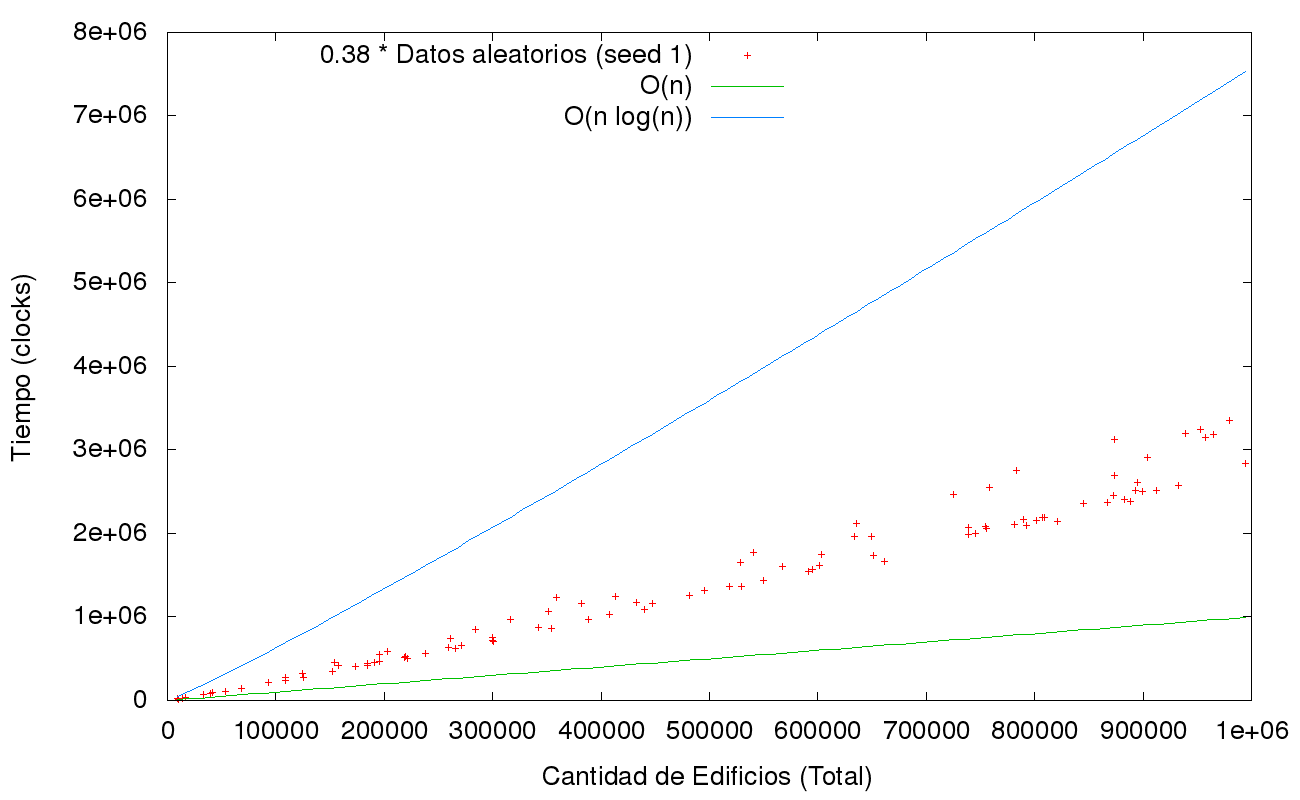
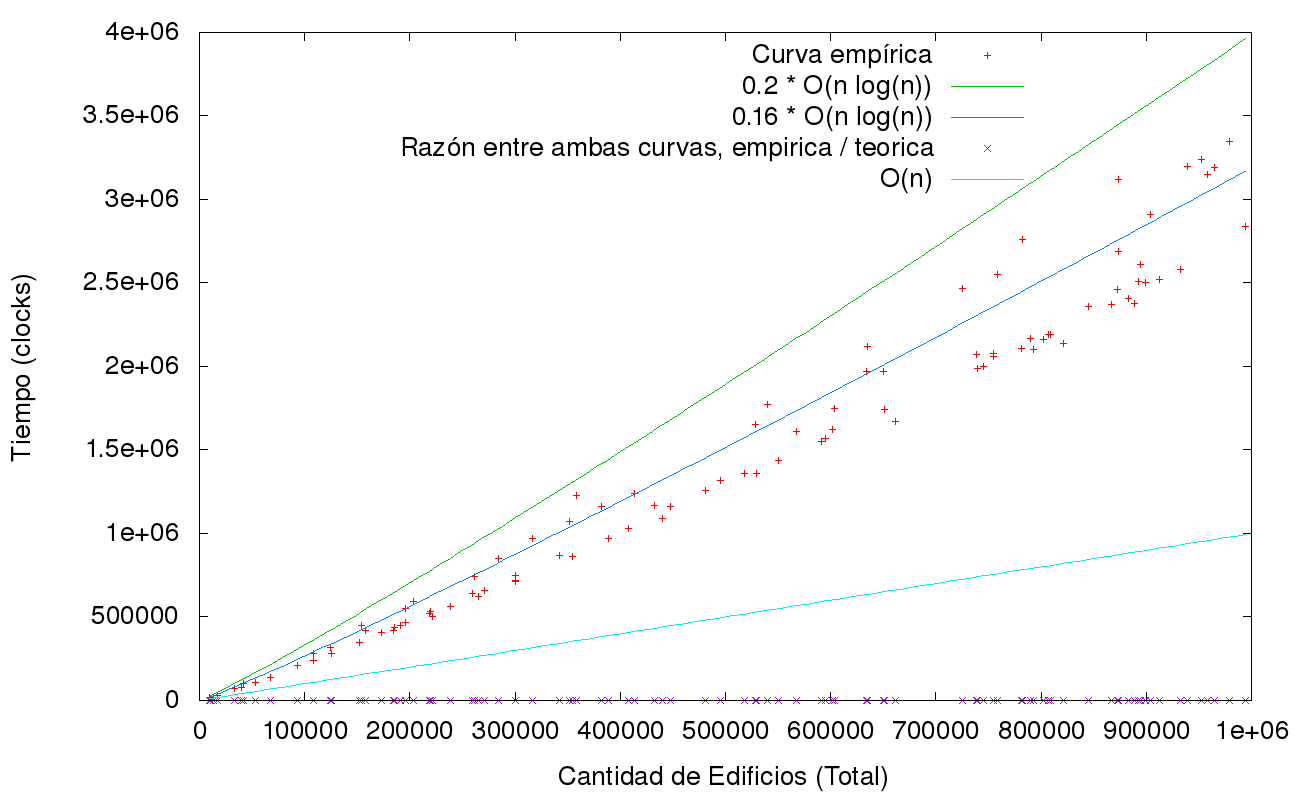
Pato siempre la misma historia......

diff --git a/TP1/informe/ej2_mediciones.tex b/TP1/informe/ej2_mediciones.tex
@@ -40,6 +40,8 @@ Para realizar el análisis de performance generamos instancias de test pseudoale
 
 Esto genera 200 instancias de edificios pseudoaleatorios acotados en altura y longitud, siempre con comienzo $<$ fin del edificio.
 
+Dividimos nuestro resultado empírico por el teórico para conseguir la relación entre los dos y nos dios de 0.16.
+
 \begin{figure}[H]
 \begin{center}
 \includegraphics[scale=0.35]{./imagenes/ej2_chartRendimiento.png}
@@ -47,5 +49,13 @@ Esto genera 200 instancias de edificios pseudoaleatorios acotados en altura y lo
 \end{center}
 \end{figure}
 
-Para evidenciar que la complejidad es la que propusimos en el análisis teórico en el gráfico agregamos dos funciones para acotar superior e inferiormente. Una O(nlog(n)) y la otra O(n).
-Y también dividimos a nuestros resultados por n log(n) para poder verla como una recta.
+Para evidenciar que la complejidad es la que propusimos en el análisis teórico en el gráfico agregamos dos funciones para acotar superior e inferiormente. Una O(nlog(n)) y la otra O(n). Y también aproximamos a nuestros datos con una curva 0.16*nlog(n).
+
+\begin{figure}[H]
+\begin{center}
+\includegraphics[scale=0.35]{./imagenes/ej2_chartRendimiento2.png}
+\caption{Gráfico de relación entre el tiempo empírico en función del tiempo teórico.}
+\end{center}
+\end{figure}
+
+Como podemos apreciar también en nuestro segundo gráfico, la relación entre los tiempos empíricos y teóricos se puede aproximar bastante bien por una línea rectacon pendiente 0.16.
